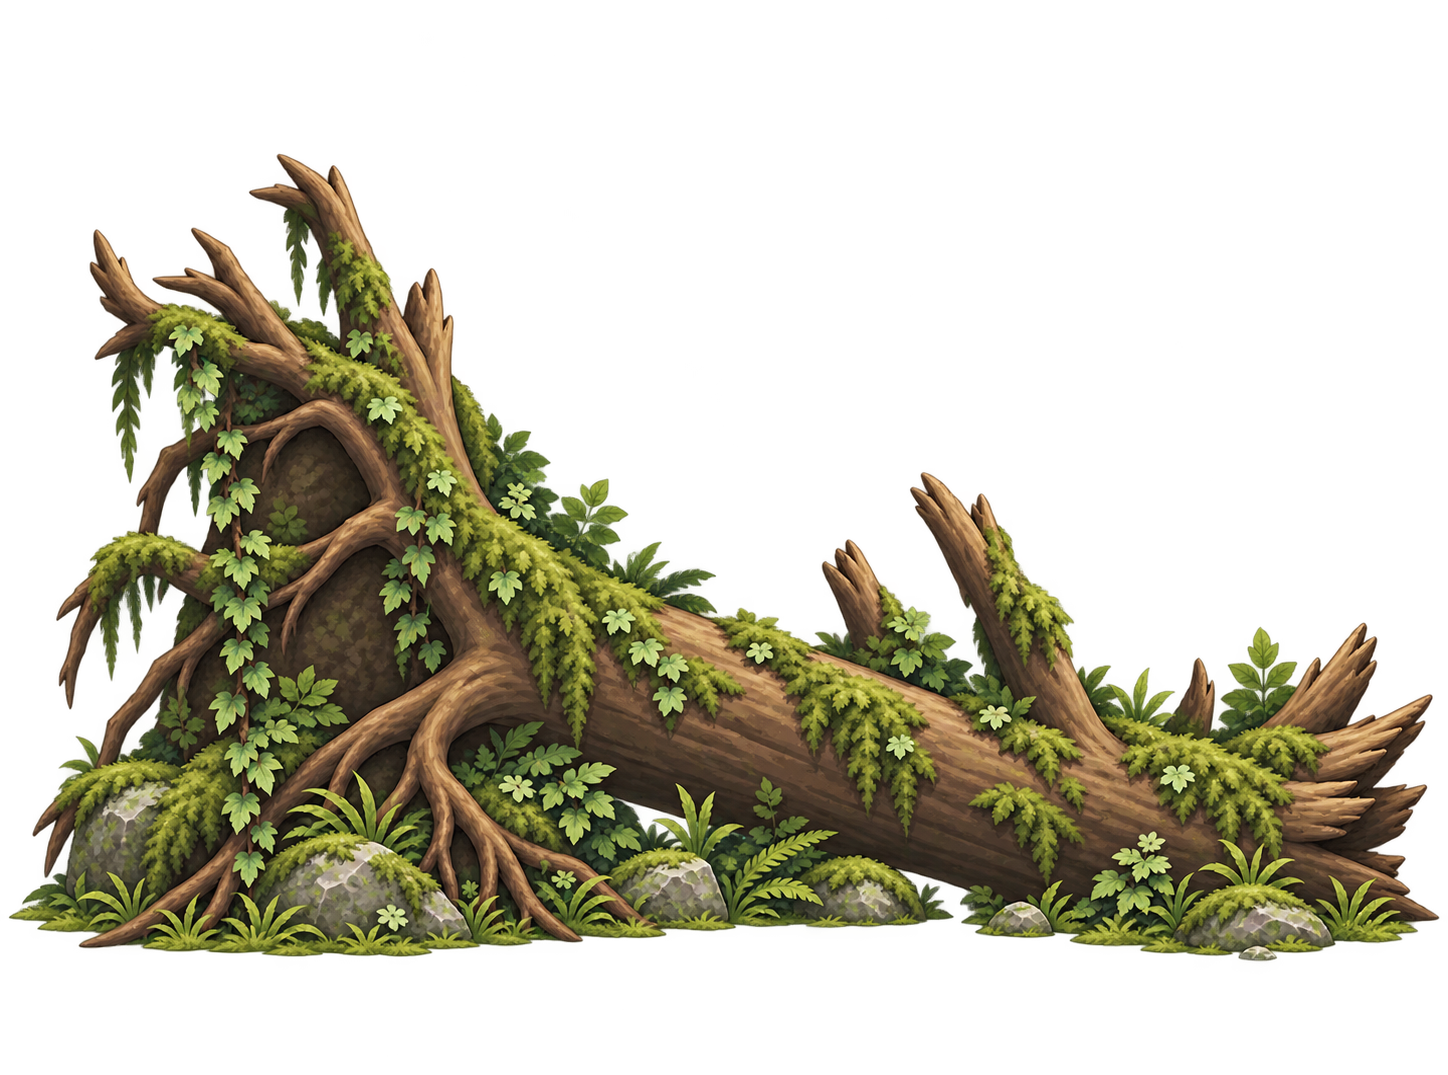
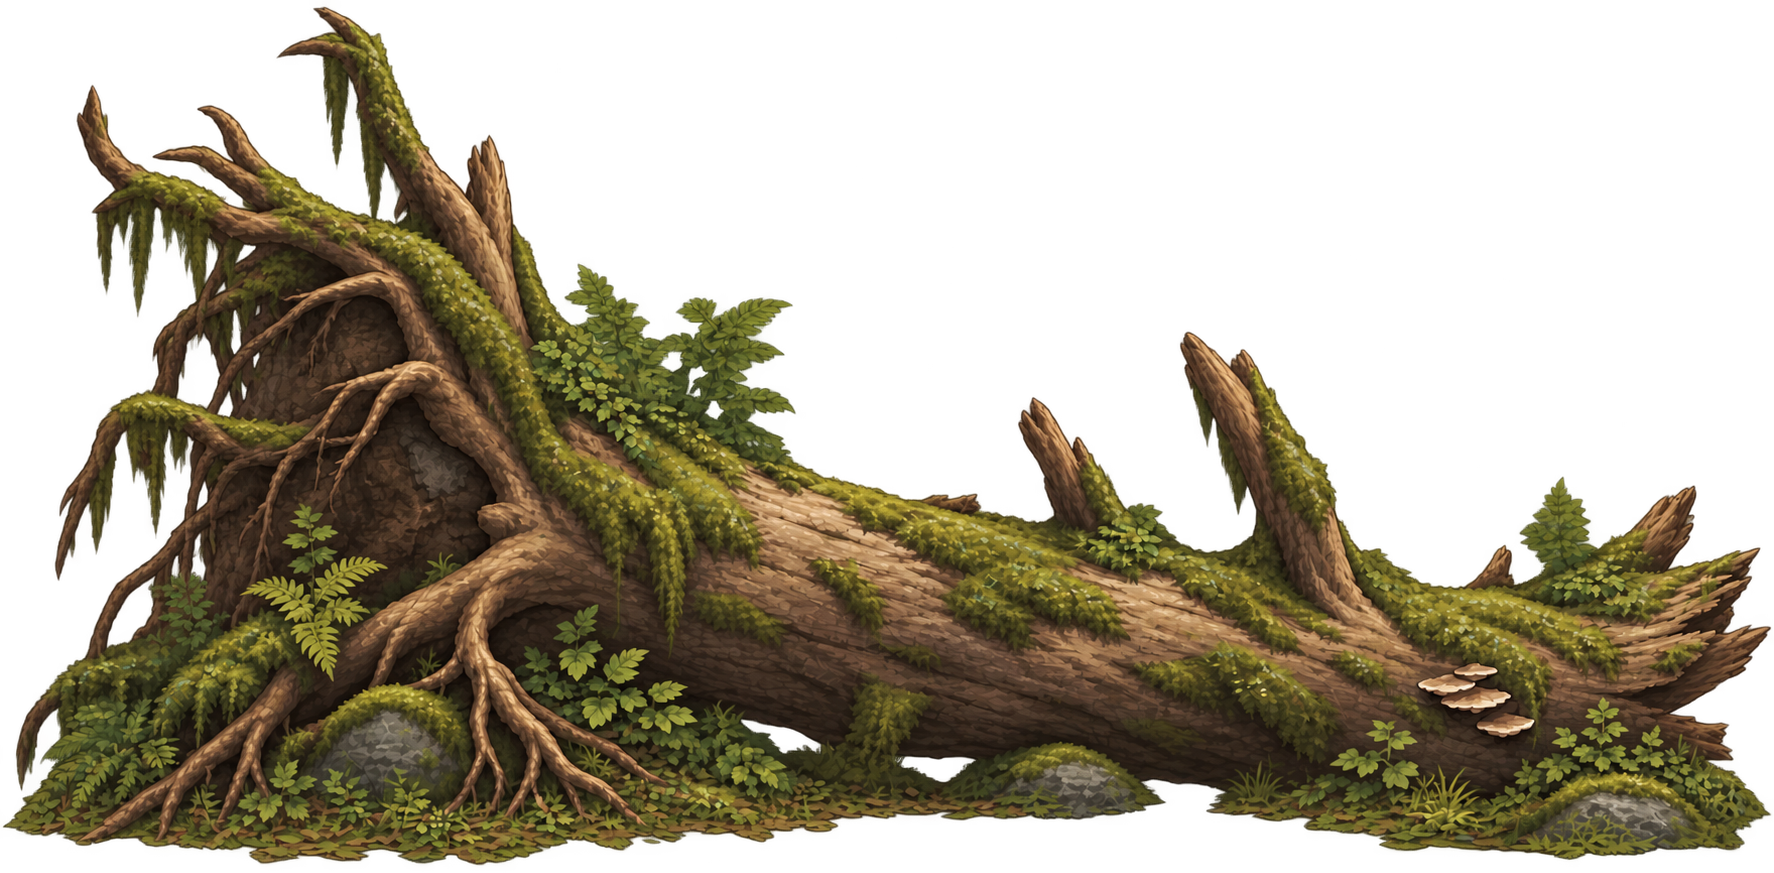
Add files via upload

diff --git a/sidescroll.js b/sidescroll.js
@@ -1932,6 +1932,46 @@
   }
   migratePuzzleArtV2();
 
+  const PUZZLE_ART_V3_MIGRATION_KEY = 'sidescroll.puzzle-art-v3.migrated';
+  function migrateFallenTreeV3Objects(objects) {
+    if (!objects || typeof objects !== 'object') return false;
+    let changed = false;
+    for (const state of Object.values(objects)) {
+      if (state?.asset !== 'fallen-tree') continue;
+      state.sx = 6.029201331114809;
+      state.sy = 2.550000000000000;
+      state.flip = false;
+      changed = true;
+    }
+    return changed;
+  }
+  function migratePuzzleArtV3() {
+    try { if (localStorage.getItem(PUZZLE_ART_V3_MIGRATION_KEY) === '1') return; } catch (_) {}
+    let startsChanged = false;
+    for (const snapshot of Object.values(puzzleStartState || {})) {
+      startsChanged = migrateFallenTreeV3Objects(snapshot?.objects) || startsChanged;
+    }
+    let libraryChanged = false;
+    for (const snapshot of Object.values(userPuzzleLibrary.templates || {})) {
+      libraryChanged = migrateFallenTreeV3Objects(snapshot?.objects) || libraryChanged;
+    }
+    let runtimeChanged = false;
+    for (const runtime of Object.values(puzzleSavedState || {})) {
+      runtimeChanged = migrateFallenTreeV3Objects(runtime?.objects) || runtimeChanged;
+    }
+    if (startsChanged) {
+      try { localStorage.setItem(PUZZLE_START_STORAGE_KEY, JSON.stringify(puzzleStartState)); } catch (_) {}
+    }
+    if (libraryChanged) {
+      try { localStorage.setItem(PUZZLE_LIBRARY_STORAGE_KEY, JSON.stringify(userPuzzleLibrary)); } catch (_) {}
+    }
+    if (runtimeChanged) {
+      try { localStorage.setItem(PUZZLE_STATE_STORAGE_KEY, JSON.stringify(puzzleSavedState)); } catch (_) {}
+    }
+    try { localStorage.setItem(PUZZLE_ART_V3_MIGRATION_KEY, '1'); } catch (_) {}
+  }
+  migratePuzzleArtV3();
+
   const puzzleWorkshopState = (() => {
     try {
       const parsed = JSON.parse(localStorage.getItem(PUZZLE_WORKSHOP_STORAGE_KEY) || '{}') || {};
@@ -2247,7 +2287,7 @@
   }
 
   function inventoryThumbMarkup(itemDef) {
-    if (itemDef?.image) return `<span class="sidescroll-inventory-thumb"><img src="${itemDef.image}?v=0.2.84" alt=""></span>`;
+    if (itemDef?.image) return `<span class="sidescroll-inventory-thumb"><img src="${itemDef.image}?v=0.2.85" alt=""></span>`;
     if (itemDef?.asset === 'forest-key') return '<span class="sidescroll-inventory-thumb sidescroll-inventory-key-thumb" aria-hidden="true"><i></i></span>';
     return '<span class="sidescroll-inventory-thumb" aria-hidden="true">◇</span>';
   }
@@ -3158,7 +3198,7 @@
       { name:'puzzle-log-b', label:'MOVEABLE LOG B', image:'puzzle-log-b.png', category:'gameplay', gameplayType:'crate', thumb:'━', defaultHeight:0.72, collision:{halfWidth:0.38,height:0.42,depth:0.50,platform:true} },
       { name:'puzzle-log-c', label:'MOVEABLE LOG C', image:'puzzle-log-c.png', category:'gameplay', gameplayType:'crate', thumb:'━', defaultHeight:0.76, collision:{halfWidth:0.47,height:0.44,depth:0.54,platform:true} },
       { name:'puzzle-log-d', label:'MOVEABLE LOG D', image:'puzzle-log-d.png', category:'gameplay', gameplayType:'crate', thumb:'━', defaultHeight:0.82, collision:{halfWidth:0.43,height:0.46,depth:0.54,platform:true} },
-      { name:'fallen-tree', label:'FALLEN TREE', image:'fallen-tree.png', category:'gameplay', gameplayType:'obstacle', thumb:'⌁', defaultHeight:3.45, collision:{halfWidth:2.35,height:1.72,depth:1.08,platform:true} },
+      { name:'fallen-tree', label:'FALLEN TREE', image:'fallen-tree.png', category:'gameplay', gameplayType:'obstacle', thumb:'⌁', defaultHeight:2.55, collision:{halfWidth:2.35,height:1.72,depth:1.08,platform:true} },
       { name:'tree-stump', label:'TREE STUMP', image:'tree-stump.png', category:'gameplay', gameplayType:'prop', thumb:'◯', defaultHeight:1.18 },
       { name:'broken-branch', label:'BROKEN BRANCH', image:'broken-branch.png', category:'gameplay', gameplayType:'prop', thumb:'⟍', defaultHeight:0.78 }
     ]},
@@ -5029,7 +5069,7 @@
           ? `sidescroll-tree-${name.slice(-2)}.png`
           : (name.startsWith('ground') ? `sidescroll-ground-${name.slice(-2)}.png` : null));
         if (file) {
-          btn.innerHTML = `<span class="sidescroll-asset-thumb"><img src="${file}?v=0.2.84" alt="" loading="eager"></span><small>${info.label}</small>`;
+          btn.innerHTML = `<span class="sidescroll-asset-thumb"><img src="${file}?v=0.2.85" alt="" loading="eager"></span><small>${info.label}</small>`;
         } else if (name === 'crate') {
           btn.innerHTML = `<span class="sidescroll-crate-thumb" aria-hidden="true"><i></i></span><small>${info.label}</small>`;
         } else {

diff --git a/puzzle-groups.js b/puzzle-groups.js
@@ -3,17 +3,17 @@ window.SideScrollPuzzleConfig = {
   assetPacks: {
     "woodland-puzzle-atlas-v1": {
       assets: [
-        { name: "puzzle-log-a", url: "puzzle-log-a.png?v=0.2.84", aspect: 1.345895 },
-        { name: "puzzle-log-b", url: "puzzle-log-b.png?v=0.2.84", aspect: 1.106195 },
-        { name: "puzzle-log-c", url: "puzzle-log-c.png?v=0.2.84", aspect: 1.345895 },
-        { name: "puzzle-log-d", url: "puzzle-log-d.png?v=0.2.84", aspect: 1.106195 },
-        { name: "fallen-tree", url: "fallen-tree.png?v=0.2.84", aspect: 1.346977 },
+        { name: "puzzle-log-a", url: "puzzle-log-a.png?v=0.2.85", aspect: 1.345895 },
+        { name: "puzzle-log-b", url: "puzzle-log-b.png?v=0.2.85", aspect: 1.106195 },
+        { name: "puzzle-log-c", url: "puzzle-log-c.png?v=0.2.85", aspect: 1.345895 },
+        { name: "puzzle-log-d", url: "puzzle-log-d.png?v=0.2.85", aspect: 1.106195 },
+        { name: "fallen-tree", url: "fallen-tree.png?v=0.2.85", aspect: 2.364393 },
         { name: "tree-stump", url: "tree-stump.png?v=0.2.61", aspect: 2.4223 },
         { name: "broken-branch", url: "broken-branch.png?v=0.2.61", aspect: 2.7182 },
-        { name: "stone-wall", url: "stone-wall.png?v=0.2.84", aspect: 1.895735 },
-        { name: "stone-piece-a", url: "stone-piece-a.png?v=0.2.84", aspect: 1.094391 },
-        { name: "stone-piece-b", url: "stone-piece-b.png?v=0.2.84", aspect: 0.992500 },
-        { name: "stone-piece-c", url: "stone-piece-c.png?v=0.2.84", aspect: 1.062417 }
+        { name: "stone-wall", url: "stone-wall.png?v=0.2.85", aspect: 1.895735 },
+        { name: "stone-piece-a", url: "stone-piece-a.png?v=0.2.85", aspect: 1.094391 },
+        { name: "stone-piece-b", url: "stone-piece-b.png?v=0.2.85", aspect: 0.992500 },
+        { name: "stone-piece-c", url: "stone-piece-c.png?v=0.2.85", aspect: 1.062417 }
       ]
     }
   },
@@ -85,8 +85,8 @@ window.SideScrollPuzzleConfig = {
     "asset": "fallen-tree",
     "x": 2.695779243336297,
     "z": 0,
-    "width": 4.647070,
-    "height": 3.45,
+    "width": 6.029201331114809,
+    "height": 2.55,
     "category": "gameplay",
     "gameplayType": "obstacle",
     "collision": {

diff --git a/sw.js b/sw.js
@@ -1,4 +1,4 @@
-const CACHE = "sidescroll-v0.2.84";
+const CACHE = "sidescroll-v0.2.85";
 const APP_SHELL = [
   "./",
   "./index.html",

diff --git a/README.md b/README.md
@@ -1,12 +1,12 @@
-# SideScroll v0.2.84
+# SideScroll v0.2.85
 
-Puzzle art integration pass.
+Fallen-tree silhouette/footprint correction.
 
-- replaced the fallen tree, stone wall, triangle stone, arch stone and hexagon stone with the approved unified art
-- replaced the carryable log set with the two approved log designs
-- all new puzzle art uses the image generator native alpha; the alpha is preserved exactly
-- RGB colour is dilated underneath transparent pixels to protect linear-filtered edges without magenta keying or fringe contamination
-- updated puzzle texture aspect ratios and fresh-placement scales
-- added a one-time migration that removes old non-uniform stretching from existing authored puzzle layouts and disables flips on the new directional art
-- fallen tree is scaled up uniformly to remain a substantial gameplay obstacle
-- stone wall remains a large puzzle feature while using its native proportions
+- replaces the v0.2.84 fallen-tree art with the latest approved wide-silhouette version
+- preserves the image-generator native soft alpha
+- dilates RGB underneath transparent pixels only; the alpha channel is not regenerated or hardened
+- removes transparent bottom padding so the visible asset is genuinely floor-aligned
+- restores the proven pre-art-pass fallen-tree dimensions: 6.029 wide × 2.55 high
+- migrates existing authored starts, puzzle templates and runtime puzzle state back to that footprint
+- keeps the existing fallen-tree collision data unchanged
+- no log, wall, stone, environment, fog or gameplay-system changes
